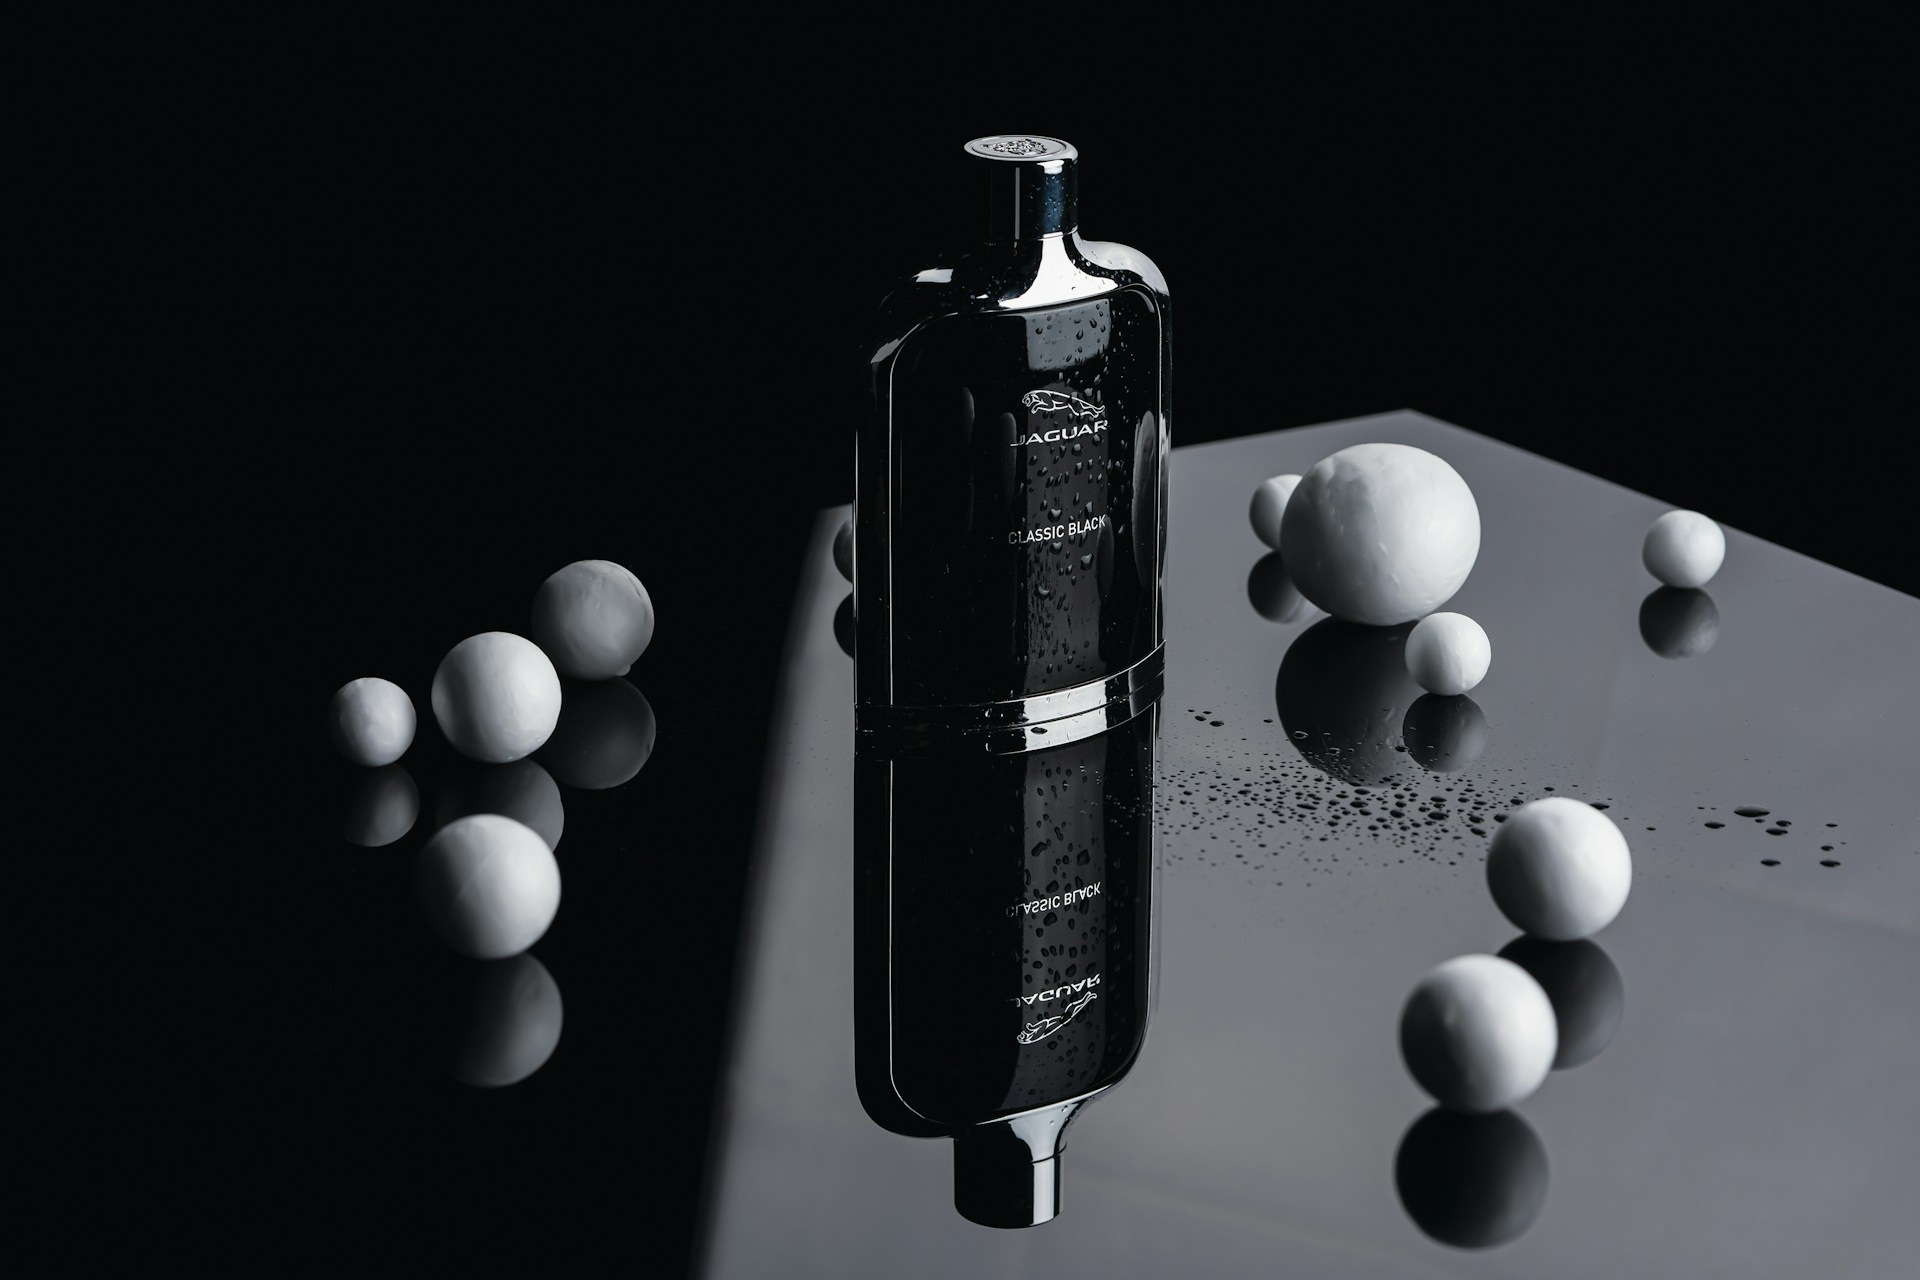
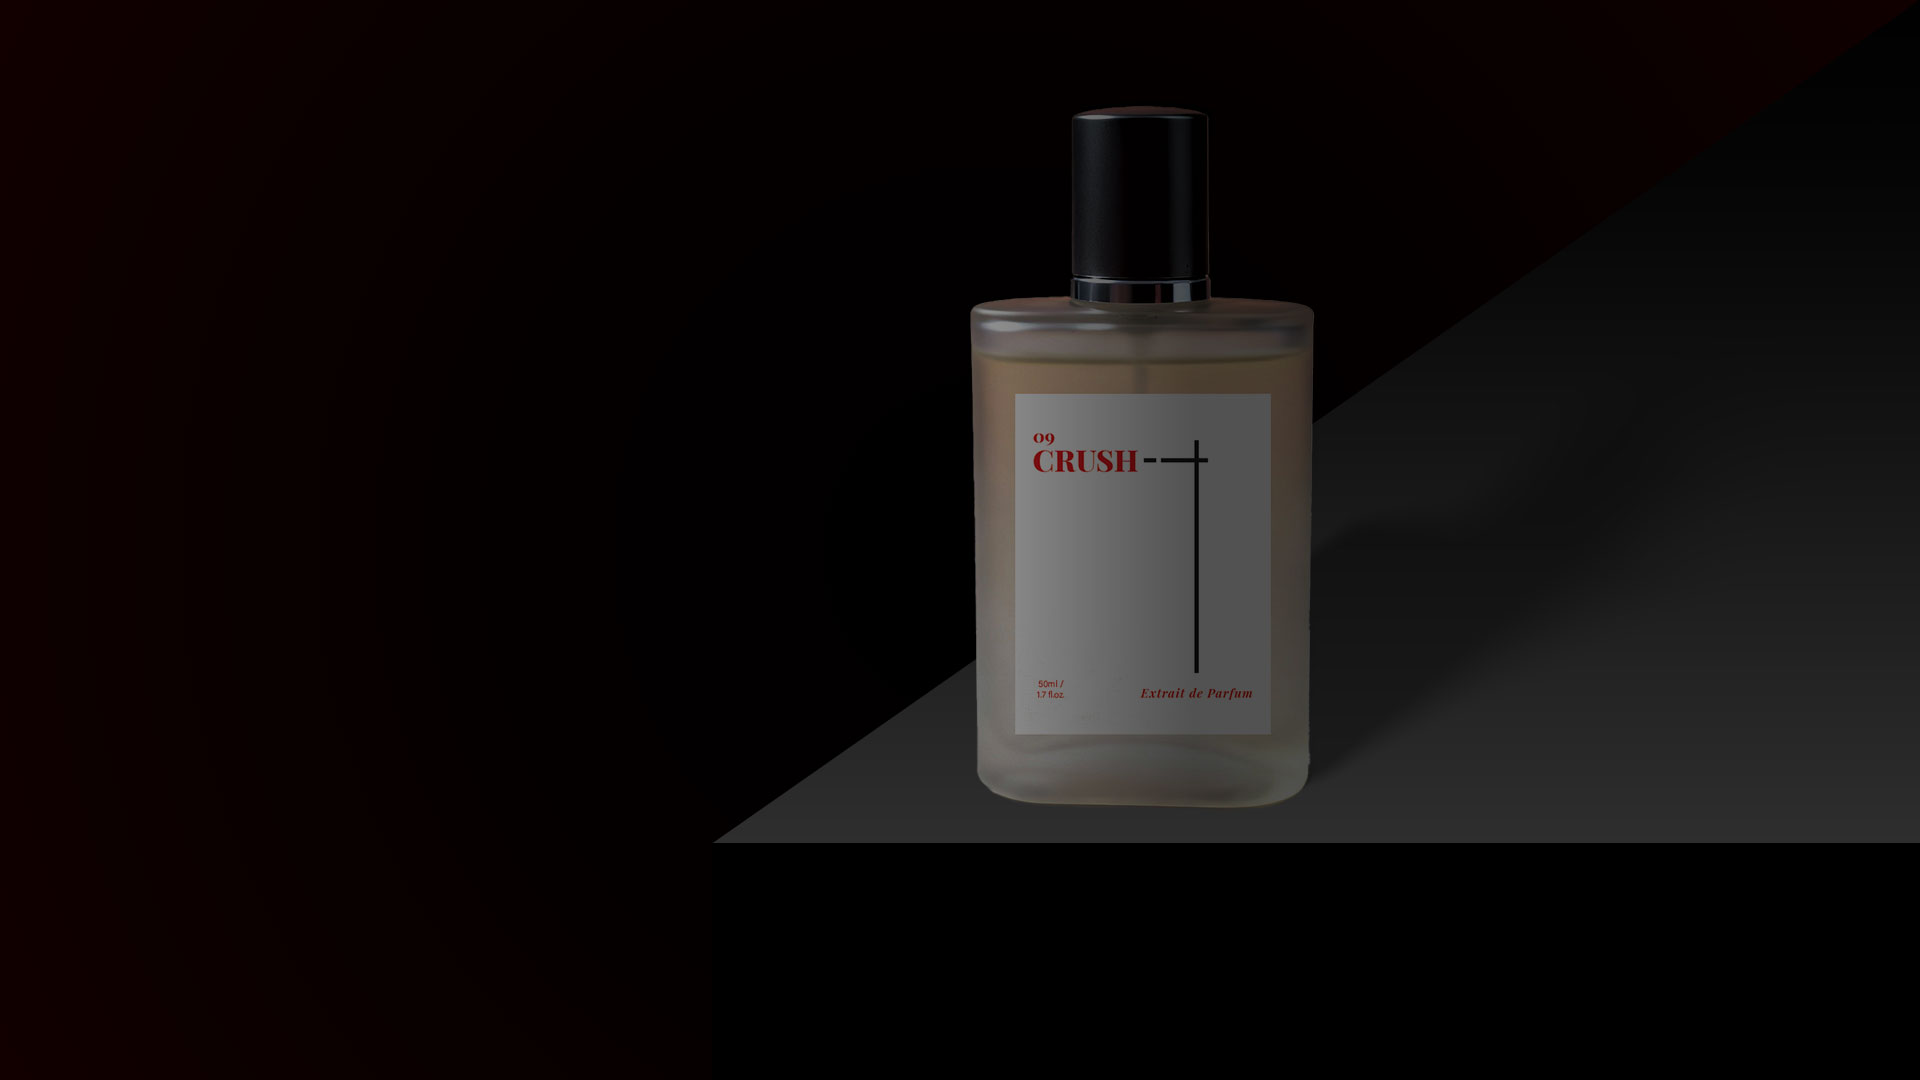
update xarproject

diff --git a/index.html b/index.html
@@ -42,17 +42,29 @@
         
         </div>
         <!-- search form end -->
+
+
       <!-- shopping cart start -->
        <div class="shopping-cart">
           <div class="cart-item">
             <img src="assets/produk/crush.jpg" alt="Extrait de Parfum" />
             <div class="cart-item-details">
               <h4>Extrait de Parfum</h4>
-              <div class="item-price">IDR 149K</div>
-               </div>
+              <div class="item-price">
+                <span class="current-price">IDR 149K</span>&times;
+                <button class="quantity-btn-minus">&minus;</button>
+                <span class="quantity">1</span>
+                <button class="quantity-btn-plus">&plus;</button> &equals;
+                <span class="total-price">IDR 149K</span>
+
+                
+              </div>
+            </div>
           </div>
           </div>
       <!-- shopping cart end -->
+
+      <!-- navbar extra start -->
         <div class="navbar-extra">
         <a href="#" id="search-button" >
             <i data-feather="search"></i>
@@ -67,9 +79,9 @@
         </a>
       </div>
     </nav>
-    <!-- navbar end -->
+    <!-- navbar extra end -->
 
-    <!-- hero section -->
+    <!-- hero section start -->
     <section id="home" class="hero">
       <main class="content">
         <h1>Kami meracik setiap produk dengan <span>penuh perhatian</span></h1>
@@ -80,6 +92,8 @@
         <a href="#product" class="cta">Lihat Produk</a>
     </section>
     <!-- hero section end -->
+
+
 <!-- about section -->
     <section id="about" class="about">
         <h2><span>Tentang</span> Kami</h2>
@@ -185,11 +199,8 @@
     <!-- footer start -->
      <footer>
      <div class="footer-social">  
-      <a href="https://www.instagram.com/xarproject/" target="_blank" class="social-link">
+      <a href="https://www.instagram.com/xar.project/" target="_blank" class="social-link">
         <i data-feather="instagram"></i>
-      </a>
-      <a href="https://www.facebook.com/xarproject" target="_blank" class="social-link">
-        <i data-feather="facebook"></i> 
       </a>
       <a href="https://shopee.co.id/xarproject" target="_blank" class="social-link">
         <i data-feather="shopping-bag"></i>
@@ -218,7 +229,7 @@
            
             <div class="modal-content">
                <div class="modal-image">
-              <img :src="${item.image}" alt="${item.name}" />
+              <img :src="${item.image}" :alt="${item.name}" />
             </div>
               <div class="modal-details">
               <h3 x-text="item.name"></h3>

diff --git a/css/style.css b/css/style.css
@@ -272,7 +272,7 @@ body {
   line-height: 1.4rem;
   font-weight: 100;
   text-shadow: 1px 1px 3px rgba(0, 0, 0, 0.5);
-  mix-blend-mode: difference;
+  /* mix-blend-mode: difference; */
 }
 
 .hero .content .cta {
@@ -410,6 +410,7 @@ body {
   width: 25rem;
   height: 25rem;
   object-fit: cover;
+  border-radius: 0.5rem;
 }
 
 .product .product-content h3 {